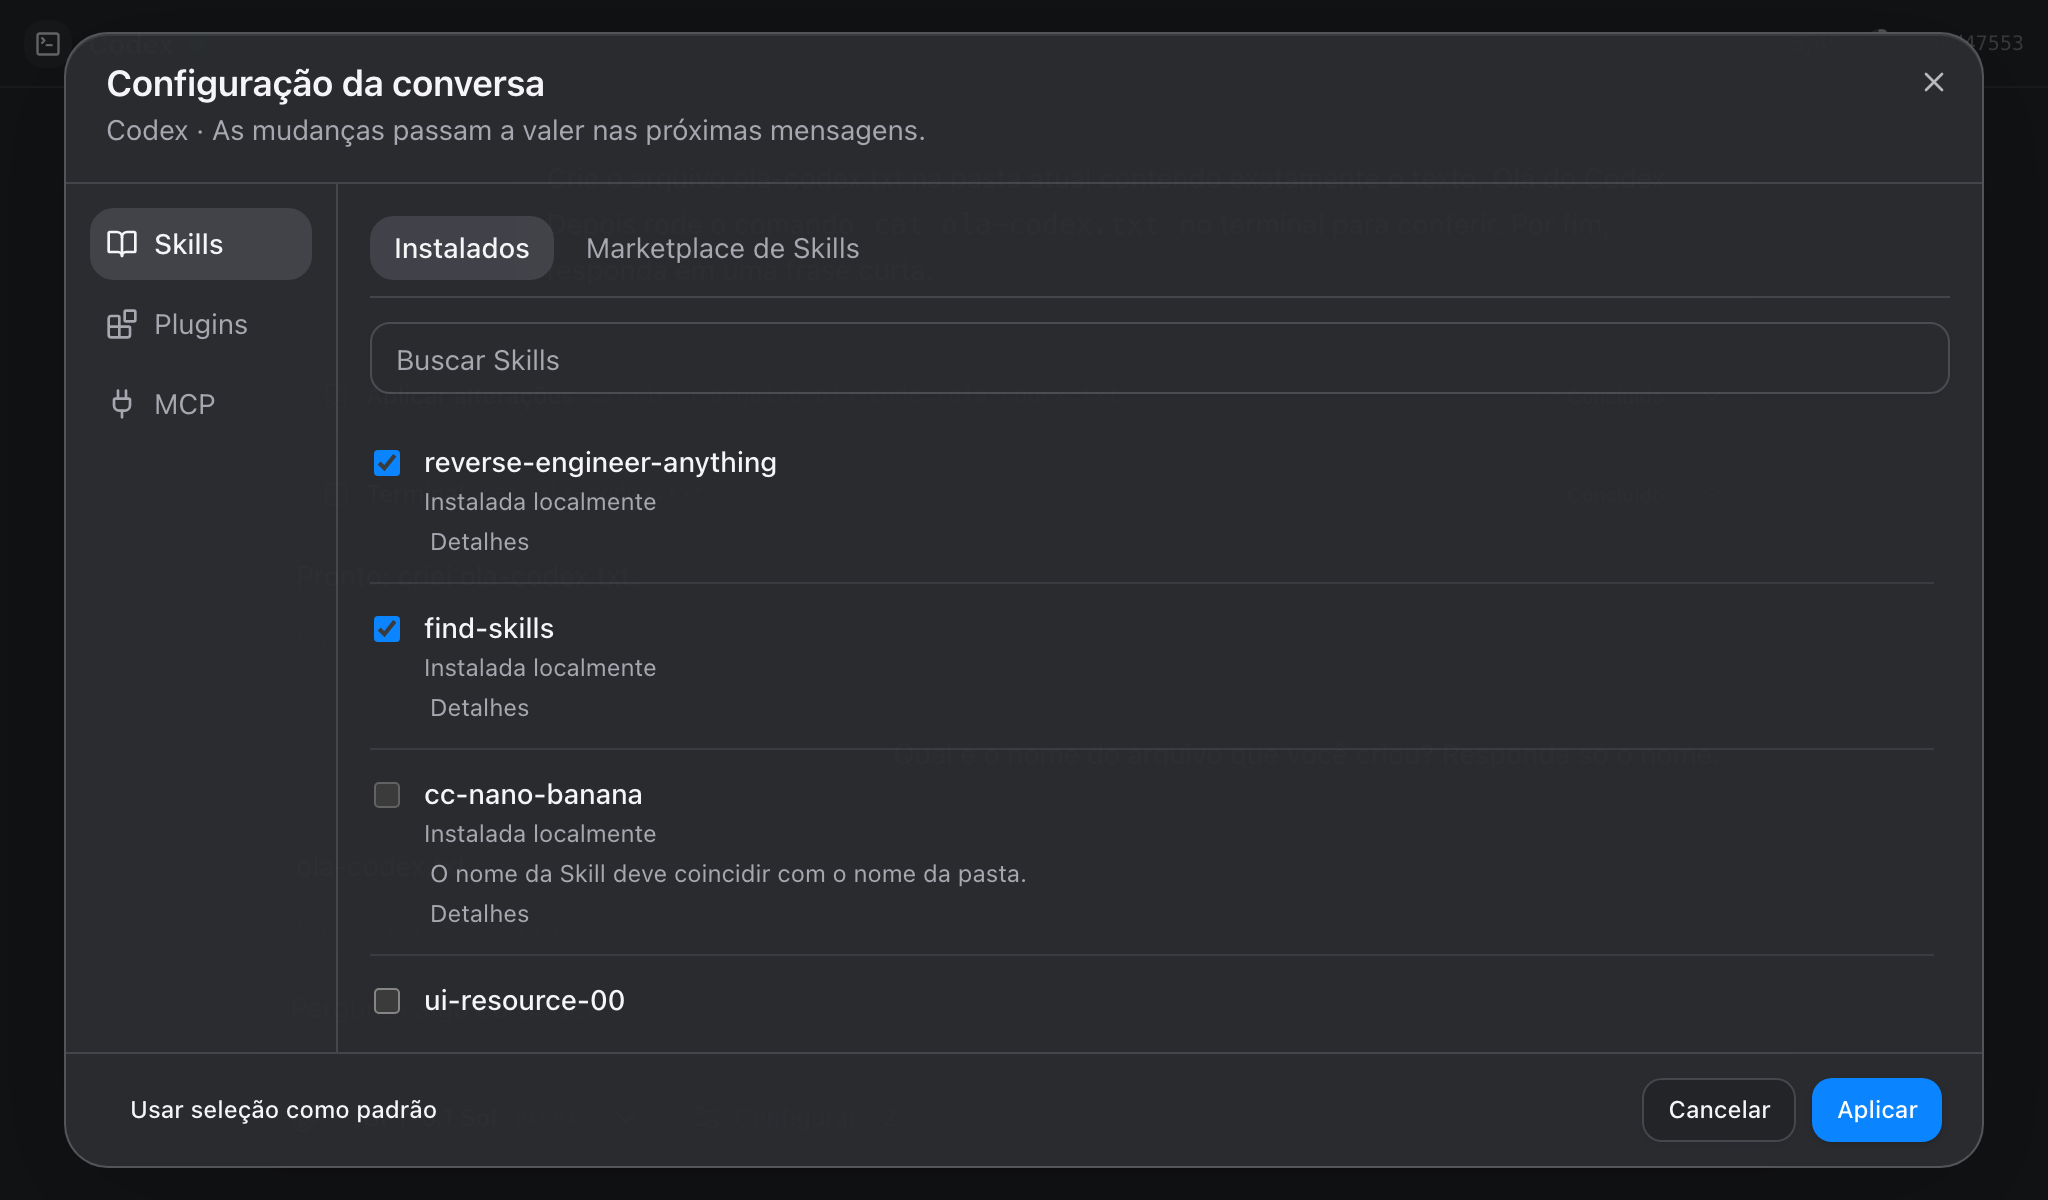
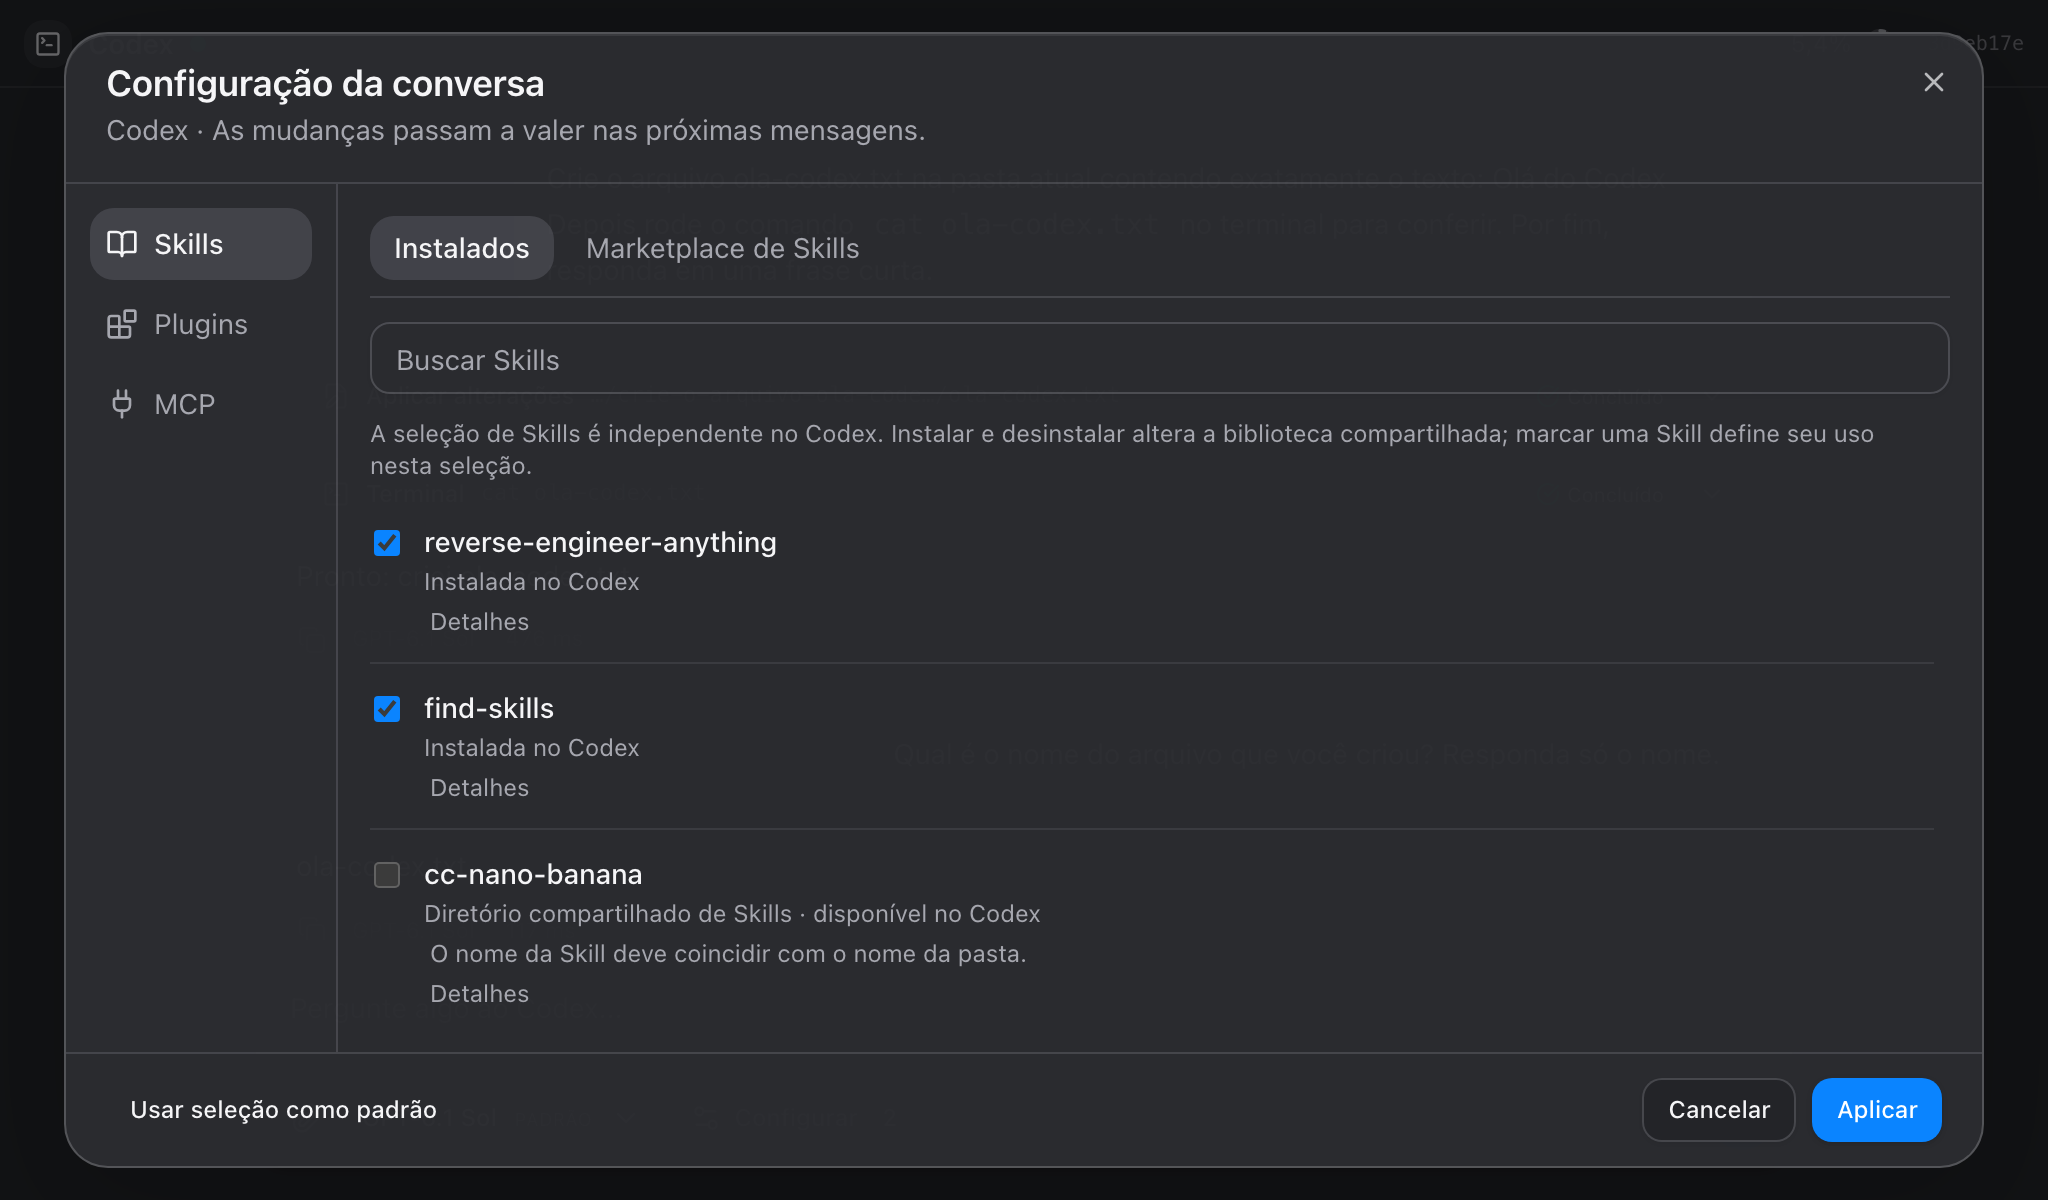
fix(skills): refresh detail readiness after compatibility review

Changed region(s): [[0.1562, 0.3392, 0.9062, 0.8633]]

diff --git a/src/mainview/settings/agent-resources/workspace.test.tsx b/src/mainview/settings/agent-resources/workspace.test.tsx
@@ -1,12 +1,15 @@
-import { render, screen } from "@testing-library/react";
+import { act, render, screen, waitFor } from "@testing-library/react";
 import userEvent from "@testing-library/user-event";
 import { useState } from "react";
 import { expect, it, vi } from "vitest";
-import type { ExtensionChoices } from "@/shared/extension-rpc";
+import type {
+	ExtensionCapability,
+	ExtensionChoices,
+} from "@/shared/extension-rpc";
 import { ResourceWorkspace } from "./workspace";
 
 const request = vi.hoisted(() => ({
-	agentExtensionReview: vi.fn(async () => []),
+	agentExtensionReview: vi.fn(async (): Promise<ExtensionCapability[]> => []),
 	agentImportSkill: vi.fn(),
 	agentExtensionSources: vi.fn(async () => []),
 }));
@@ -120,4 +123,74 @@ it("shows harness ownership and a clear return from native Skill details", async
 	expect(
 		screen.getByRole("button", { name: "Detalhes de review" }),
 	).toHaveFocus();
+});
+
+it("enables a packaged Skill in open details when its deferred compatibility review completes", async () => {
+	let complete!: (caps: ExtensionCapability[]) => void;
+	request.agentExtensionReview.mockReturnValueOnce(
+		new Promise((resolve) => {
+			complete = resolve;
+		}),
+	);
+	const pkg = {
+		id: "package",
+		name: "Fixture",
+		description: "Fixture description",
+		sourceId: "source",
+		url: "https://github.com/a/b",
+		revision: "revision",
+		diagnostics: [],
+		components: [
+			{
+				id: "skill",
+				name: "Package Skill",
+				kind: "skill" as const,
+				sources: [],
+				diagnostics: [],
+			},
+		],
+	};
+	function DeferredWorkspace() {
+		const [choices, onChange] = useState<ExtensionChoices>({
+			skillIds: [],
+			extensionSelections: [],
+			builtinCommandNames: [],
+			mcpServerIds: [],
+		});
+		return (
+			<ResourceWorkspace
+				agent="codex"
+				page="skills"
+				library={{
+					...library,
+					inventory: { ...library.inventory, installed: [pkg] },
+				}}
+				choices={choices}
+				onChange={onChange}
+				onRefresh={() => {}}
+			/>
+		);
+	}
+	render(<DeferredWorkspace />);
+	await userEvent.click(
+		screen.getByRole("button", { name: "Detalhes de Fixture: Package Skill" }),
+	);
+	const enabled = screen.getByRole("checkbox", { name: "Usar Package Skill" });
+	expect(enabled).toBeDisabled();
+	await act(async () => {
+		complete([
+			{
+				packageId: "package",
+				componentId: "skill",
+				status: "adapted",
+				reason: "Compatível",
+			},
+		]);
+	});
+	await waitFor(() => expect(enabled).toBeEnabled());
+	expect(
+		screen.queryByText("Verificando compatibilidade…"),
+	).not.toBeInTheDocument();
+	await userEvent.click(enabled);
+	expect(enabled).toBeChecked();
 });

diff --git a/src/mainview/settings/agent-resources/skills.tsx b/src/mainview/settings/agent-resources/skills.tsx
@@ -95,6 +95,21 @@ export function SkillsResources({
 		});
 	}
 	const detail = navigation.detail;
+	const detailCapability = detail?.pkg
+		? capabilities.find(
+				(cap) =>
+					cap.packageId === detail.pkg!.id &&
+					cap.componentId === detail.componentId &&
+					(!cap.revision || cap.revision === detail.pkg!.revision),
+			)
+		: undefined;
+	const detailUnavailable = detail?.pkg
+		? !detailCapability ||
+			!["native", "adapted"].includes(detailCapability.status)
+			? (detailCapability?.reason ?? "Verificando compatibilidade…")
+			: undefined
+		: detail?.unavailable;
+
 	const checked = detail?.skill
 		? choices.skillIds.includes(detail.skill.id)
 		: detail?.builtinName
@@ -168,7 +183,7 @@ export function SkillsResources({
 									aria-label={`Usar ${detail.name}`}
 									checked={checked}
 									disabled={
-										selectionDisabled || (!checked && !!detail.unavailable)
+										selectionDisabled || (!checked && !!detailUnavailable)
 									}
 									onChange={(e) => changeDetail(e.target.checked)}
 									className="accent-primary"
@@ -187,7 +202,7 @@ export function SkillsResources({
 				>
 					<p className="text-xs text-muted-foreground">{detail.origin}</p>
 					<p className="whitespace-pre-wrap break-words leading-relaxed">
-						{detail.description}
+						{detail.description || detailCapability?.reason}
 					</p>
 					{detail.skill?.source.kind === "harness" && (
 						<p className="text-xs text-muted-foreground">
@@ -221,8 +236,8 @@ export function SkillsResources({
 							remove o pacote da biblioteca compartilhada.
 						</p>
 					)}
-					{detail.unavailable && (
-						<p className="text-xs text-destructive">{detail.unavailable}</p>
+					{detailUnavailable && (
+						<p className="text-xs text-destructive">{detailUnavailable}</p>
 					)}
 					{error && (
 						<p role="alert" className="text-sm text-destructive">
@@ -347,11 +362,10 @@ export function SkillsResources({
 											navigation.open({
 												id,
 												name: c.name,
-												description: c.description ?? cap?.reason ?? "",
+												description: c.description ?? "",
 												origin,
 												pkg,
 												componentId: c.id,
-												unavailable,
 											})
 										}
 									/>

diff --git a/docs/testing/harness-skill-followup.md b/docs/testing/harness-skill-followup.md
@@ -9,6 +9,10 @@ Confirmed scope: portable installs stay shared; selections, drafts and defaults 
 - Manual Skill removal accepts only registered Ptolemy IDs. Stored harness choices are not rewritten; missing resources remain availability-checked.
 - The real CLI reproduced `invalid transport in mcp_servers.codex_app` when derived inventory entries received name-only disabled overrides. It passed after preserving the transport kind and generating valid disabled entries. The user's real inventory also parsed with every inherited MCP disabled under deny-network/deny-write policy; no model calls or global edits were made.
 
-Validation: 986 unit tests /95 files passed; TypeScript, lint and complete development bundle passed. Integration26 passed/1 opt-in native vault skip; chat E2E7 passed/29 assertions with80 Skills, both agents, light/dark, deep-list detail navigation, sticky controls, restored scroll/focus and follow-up memory. Native desktop checks continue through CI.
+Validation: 987 unit tests /95 files passed; TypeScript, lint and complete development bundle passed. Integration26 passed/1 opt-in native vault skip; chat E2E7 passed/29 assertions with80 Skills, both agents, light/dark, deep-list detail navigation, sticky controls, restored scroll/focus and follow-up memory. Native desktop checks continue through CI.
 
 Evidence: `/tmp/ptolemy-harness-fixes-unit-final.log`, `/tmp/ptolemy-harness-fixes-integration.log`, `/tmp/ptolemy-harness-skill-chat-e2e.log`, `/tmp/ptolemy-codex-derived-mcp-{red,green}.log`. Captures: `/tmp/ptolemy-harness-skill-screenshots/chat-{claude,codex}-skill-details.png`.
+
+Independent scoped review found one Important issue: opening packaged Skill details before compatibility review completed could keep activation disabled. A deferred-review regression reproduced the failure and passed after detail readiness was derived from live package/revision/component capabilities. The full 987-test suite, types and bundle were rerun. No Critical or Minor findings remained; no re-review was dispatched. Review excluded original branch work (already reviewed), live services/global modifications (prohibited by this correction's scope), and native rendering (unchanged; CI is separate evidence).
+
+![Skill details with persistent Back and actions](../screenshots/chat-skill-details.png)

diff --git a/docs/plans/2026-11-02-harness-skill-navigation-fixes.md b/docs/plans/2026-11-02-harness-skill-navigation-fixes.md
@@ -14,3 +14,5 @@ Implementation:
 No additional design approval requested: these corrections are authorized by the user's review and clarify the approved shared-library/per-harness activation model.
 
 Additional reported runtime error: Codex failed before the first turn with `invalid transport in mcp_servers.codex_app`. `mcp list` can report derived stdio/HTTP servers absent from config.toml. Disabled name-only overrides create transport-less tables. Keep the inventory's transport kind and generate valid inert disabled transports, retaining quoted names and reserved selected aliases. Regression uses the real CLI, with a derived metadata-only entry injected into inventory, while actual exec and MCP calls are unchanged. RED observed at /tmp/ptolemy-codex-derived-mcp-red.log; GREEN at /tmp/ptolemy-codex-derived-mcp-green.log. Real user inventory also parsed with all inherited servers disabled under deny-network/deny-write policy, without model calls or global edits.
+
+Final scoped review: one Important finding (detail readiness captured before asynchronous review completed), reproduced RED in /tmp/ptolemy-package-detail-readiness-red.log and fixed GREEN in /tmp/ptolemy-package-detail-readiness-green.log. Readiness now derives from live revision-matched capabilities. Original branch work was not re-reviewed; live services/global modifications remained outside authorization; native appearance is unchanged and verified separately by CI. No Critical or deferred Minor findings. Full suite987 PASS, types/build PASS; CI is being monitored on the final commit.
